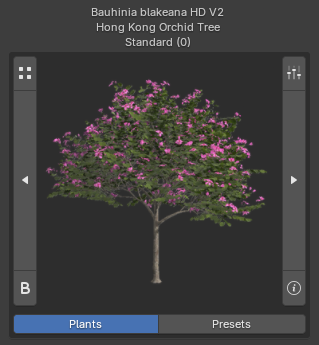
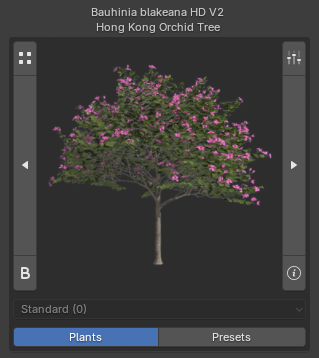
1.1.7 pre-release changelog

diff --git a/docs/changelog.md b/docs/changelog.md
@@ -12,20 +12,73 @@ Here, you can find a list of all updates, enhancements, and bug fixes made to PF
 
 <div class="changelog" markdown>
 
-<!-- ### 1.1.7 <small>2025-09-XX</small>
+### 1.1.7 <small>2025-10-XX</small>
+
+!!! warning ""
+    This version is not yet released and the changelog is not yet finalized. Coming soon!
 
 - **New Functionality**
-    - **Biomes**:
-- **New Functionality**
+    - **Biomes & Collections**: [More info](workflow/biomes_and_collections.md)
+        - Introduction to a brand new way to work with grouped plants: **Biomes** and **Collections**. Both systems help you quickly bring plants from PlantFactory into Blender, but each serves a slightly different purpose.
+        - **Biomes** are ready-made, structured plant setups designed for natural environments like forests, meadows, and wetlands.
+        - **Collections** are curated groups of plants designed for **bulk importing** into your Blender Asset Library. Unlike biomes, they are not structured scattering setups, but convenient bundles for building up your library quickly.
+    - **Resume Functionality**: If an import fails after plants have already been exported from PlantFactory, you no longer need to re-export them. A new **Resume Import** button will appear, allowing you to continue the process directly with the already exported files.
+	- **Import Naming Options**: [More info](workflow/import_settings.md#name-settings)
+		- New **Advanced Mode** available for full customization of names.
+		- **Skip LOD0 Label** option now available. When enabled, the base LOD0 version of the plant will not include 'LOD0' in its name. Higher LODs (LOD1, LOD2, etc.) are unaffected.
+        - **Group Wrappers** added. This enables you to wrap the parameters inside one wrapper, such as: `Baobab Tree [Standard mat 0 | Seed 761869182 | HD]`.
+		- Wrapper `|` added.
+        - Wrapper `_` has been modified to ignore spaces.
+        - Height option now has **Include unit** setting available.
+		- Formatting options added for LOD.
+        - These settings are also available in the new **Plant Renamer** utility.
+    - **Utilities Panel**: New panel added with tools: [More info](workflow/utilities.md)
+        - **LOD Importer**: Import selected plants with specific LODs while maintaining identical seeds to preserve their appearance.
+        - **Plant Storer**: This utility lets you save selected plants from your scene into the structured biome `.blend` files. This allows you to access them directly from your Asset Library.
+        - **Plant Renamer**: Renames selected plant objects in the scene after import. The naming follows the same settings used during import but is applied retroactively.
+        - **Reset Asset Thumbnails**: This utility allows you to restore the original thumbnails (asset previews) for any plant assets imported through the PF2B addon.
+    - New **Open in PF** button available in the **Plant Info Popup**. This allows you to open a specific plant directly in PlantFactory for inspection. Note that this does not use the PF2B Bridge and runs as a standalone session, meaning the plant cannot be imported back into Blender through this action.
     - When using the **Mark as Asset** feature now the Asset automatically retrieves an Asset Preview thumbnail, the same image from the Plant Browser will be used.
 - **Improved Functionality**
+    - The main interface panel is now faster and more responsive due to optimized background processes.
+    - Materials for specific plant variations are now selectively renamed with variation-specific prefixes to ensure uniqueness and prevent unintended merging, even when base names are shared. This should result in fewer material merging issues during import for certain plants.
     - **Queue Save & Load**: Added `Add Selected Plants to Queue` option that adds all selected plants in the scene to the queue. [More info](workflow/browse_via_blender.md#queue)
-    - **Verity Textures** tool under **Plant Troubleshoot Tools** has been improved by also printing out the image name used inside blender and not only the 'physical filename' to make it clearer to find images. Also option to print out the image file size.
+    - **Verify Textures** tool under **Plant Troubleshoot Tools** has been improved: [More info](preferences/misc.md#troubleshooting)
+        - Now also prints the Blender image name (not only the file on disk).
+        - Displays the image file size.
     - When using the **Mark as Asset** in tandem with 'Import Overrides' the Asset description will be modified slightly from the default as well as a extra 'Import Overrides used' tag added to differentiate regular preset plants vs custom.
+    - When using the **Mark as Asset** now the plant category will also be added to the metadata tags, such as "Broadleaf Trees".
+- **Interface**
+	- The **The Plant Gallery Browser** size is no longer related to the size of your **3D View** and should now always be the same size.
+    - Main Interface layout has been improved with an additional dropdown list of the presets for the current plant. This lets you switch presets more quickly, alongside the two existing methods: using the arrow buttons or browsing via the Presets Gallery.
+    - The **Plant Details** section in the **Post Processing** panel now has **copy to clipboard** button for the seed value of the plant. [More info](workflow/post_processing.md#plant-details)
+    - The **Plant Info Popup**: [More info](workflow/browse_via_blender.md#plant-info-popup)
+		- Now always shows the **Search for plant info** button regardless context.
+        - Includes **copy to clipboard** buttons when **Debug To Console** is active, aiding troubleshooting.
+		- Now also displays the preset number of the selected plant.
+	- The `Preferences > General > Interface` section has been slightly organized and new options for the **Plant Gallery Browser** has been added: `Fill Rows First`, `Max Width` `Max Height` &  `Ignore resolution scaling` settings for the popup.
+    - The **Browse Presets** button is now disabled in the main plant browser for plants without presets.
+    - **PlantFactory Library** plants now display their **English name** in the interface when only a Latin name was previously available.
+    - The **Plant Troubleshoot Tools** (that can be enabled via `Preferences -> Misc`) has been moved from the **Post Processing** panel to the new **Utilities** panel.
+    - Confirm dialog has been added to the **Reset Import** function.
 - **Other**
-    - Internal changes to the `.pf2bqueue` files that are used when using the save/load queue functionality. This change is made to accommodate for the biomes system and  makes queue files from earlier releases not fully compatible.
+    - Internal changes to the `.pf2bqueue` files were made to support the new biomes system. Queue files from earlier releases may not be fully compatible with this version.
+- **Bug Fixes**
+    - **The Plant Gallery Browser** popup could spawn larger than the screen resolution, making it unusable on some setups.
+    - **Create Missing Thumbnail Cache** for `PlantFactory Library` plants was creating thumbnails in the wrong location.
+    - **Plant Info Popup** had issues displaying thumbnails for some PlantCatalog plants containing forward slashes in their names.
+    - **Import Naming Options**: Wrapper `-` behaved incorrectly.
+- **Plant-Fixes**:
+	- **Updated**:
 
---- -->
+        *Materials now use the same tiling mode as in PlantFactory, fixing visible texture seams for the following plants:*
+
+		- `PlantCatalog > Broadleaf Trees > Eucalyptus camaldulensis HD`
+		- `PlantCatalog > Broadleaf Trees > Eucalyptus camaldulensis LD`
+		- `PlantCatalog > Broadleaf Trees > Eucalyptus viminalis HD`
+		- `PlantCatalog > Broadleaf Trees > Eucalyptus viminalis LD`
+
+---
 
 ### 1.1.6 <small>2025-08-26</small>
 
@@ -168,7 +221,7 @@ Here, you can find a list of all updates, enhancements, and bug fixes made to PF
 - **Plant-Fixes**:
     - **New**:
         - `PlantCatalog > Palms > Adonidia merrillii HD.`
-- **Bugfixes**
+- **Bug Fixes**
     - Fixed an issue where, for some users, the library cache was not detected when starting a new file in Blender. Previously, you had to manually go to the preferences and click "Verify" or update the path to resolve this. This should no longer be necessary.
 
 ---
@@ -198,7 +251,7 @@ Here, you can find a list of all updates, enhancements, and bug fixes made to PF
 
 ### 1.0.7 <small>2025-03-26</small>
 
-- **Bugfixes**
+- **Bug Fixes**
     - Fixed issues with plant libraries that were not installed in the default location, where their paths were not being used correctly, which prevented you from using the plants.
 
 ---
@@ -211,14 +264,14 @@ Here, you can find a list of all updates, enhancements, and bug fixes made to PF
     - **New**:
         - `PlantCatalog > Broadleaf Trees > Adansonia digitata HD`
         - `PlantCatalog > Broadleaf Trees > Adansonia digitata LD`
-- **Bugfixes**
+- **Bug Fixes**
     - Fixed an issue where the `PlantFactory` library plants were incorrectly indexed by the re-index function (also affecting the 'verify' cache function), which prevented you from using the plants.
 
 ---
 
 ### 1.0.5 <small>2025-03-24</small>
 
-- **Bugfixes**
+- **Bug Fixes**
     - The previous `Separate Plant Library Paths` change caused issues when plant libraries were installed in custom folders, preventing the cache and indexing from working properly. This issue has now been fixed.
 
 ---
@@ -257,7 +310,7 @@ Here, you can find a list of all updates, enhancements, and bug fixes made to PF
 
 - **Interface**:
     - Miscellaneous minor interface tweaks.
-- **Bugfixes**:
+- **Bug Fixes**:
     - The `Open` button in the "Post Processing > Plant Details" now works with plants without presets.
 - **Other**
     - The Python library **psutil** bundled with the addon did not load properly on some systems due to Blender incorrectly interpreting the Python version number for this package. The version has now been renamed to reflect that it is intended for Python 3.11, as used in Blender.
@@ -282,7 +335,7 @@ Here, you can find a list of all updates, enhancements, and bug fixes made to PF
         - `PlantFactory > Trees > Quercus Rubra Mature`
         - `PlantFactory > Trees > Quercus Rubra Old`
         - `PlantFactory > Trees > Quercus Rubra Young`
-- **Bugfixes**:
+- **Bug Fixes**:
     - The `Plant Troubleshoot tools > Verify Textures` utility now works with plants that do not have presets.
 
 ---

diff --git a/docs/workflow/import_settings.md b/docs/workflow/import_settings.md
@@ -41,9 +41,18 @@ All settings also include a **Wrapper** option, which controls how parameters ar
     - `[]` → Square brackets
     - `()` → Parentheses
     - `<>` → Angle brackets
+    <!-- - `|` → Prefix with a pipe --> <!-- 1.1.7 update -->
     - `-` → Prefix with a dash
     - `_` → Prefix with an underscore
     - `None` → No wrapper
+
+<!-- - **Group Wrappers**:
+    Instead of wrapping each parameter individually, you can wrap several together inside one group.
+    Example:
+    ```
+    Baobab Tree [Standard mat 0 | Seed 761869182 | HD]
+    ```
+    Here, the **preset**, **seed**, and **detail level** are grouped within one set of square brackets, separated by a divider. --> <!-- 1.1.7 update -->
 
 <!-- - Some Examples:
     - With square brackets: `Boletus edulis HD [Standard Mat 75]`
@@ -64,7 +73,7 @@ The animated GIF below shows an example of adding the "Maturity" parameter and h
     - **Add Seed**
     - **Detail Level**: Appends the detail level (`FG, HD, LD, RT`) to the plant name.  *Note: Only applies when using English plant names and plants from the PlantCatalog library.*
     - **Add LOD**: Only available when using the [Import Extra LODs](browse_via_blender.md#lods) feature.
-
+        <!-- - **Skip LOD0 Label** option: when enabled, the base LOD0 plant will not include `LOD0` in its name, but higher LODs (`LOD1`, `LOD2`, etc.) will. --> <!-- 1.1.7 update -->
     - **Add Spaces Between Elements**: Insert spaces between elements in the plant name. For example, `Boletus edulis HD[Standard Mat 75][Spring]` will become `Boletus edulis HD [Standard Mat 75] [Spring]`.
 
 
@@ -77,3 +86,54 @@ The animated GIF below shows an example of adding the "Maturity" parameter and h
     - **Add Height**
 
     - **Add Spaces Between Elements**: Insert spaces between elements in the plant name. For example, `Boletus edulis HD[Standard Mat 75][Spring]` will become `Boletus edulis HD [Standard Mat 75] [Spring]`.
+
+
+
+<!--
+    <h4>Advanced Mode</h4>
+    ![Import Name Settings Advanced Mode](../images/import_name_settings_advanced-via_blender.webp){ .img-box align=left }
+    For power users, an **Advanced Mode** is available to fully customize how plant names are generated.
+
+    When enabled, you can use **placeholders** like `{EnglishName}`, `{Preset}`, `{LOD}`, `{Height}`, `{HeightUnit}`, and more to control the exact format of the name.
+
+    Example: `{Name} [{Preset} | {Detail}] {Height:.2f}{HeightUnit}` → Produces: `Boletus edulis HD [Standard Mat 75 | HD]  3.79m`
+
+    - **Preset templates** are available from a dropdown for quick starting points.
+    - A built-in **help panel** lists all available placeholders and examples.
+
+    info2 "Formatting Help"
+    You can use the following placeholders inside your naming template.
+    They will be replaced with plant-specific values during import.
+
+    <h4>Available placeholders:</h4>
+
+    - `{EnglishName}` → English plant name
+    - `{LatinName}` → Latin plant name
+    - `{Preset}` → Preset name
+    - `{PresetNumber}` → Preset number
+    - `{PresetDescription}` → Preset description
+    - `{Maturity}` → Maturity
+    - `{Health}` → Health
+    - `{Season}` → Season name
+    - `{Height}` → Plant height
+    - `{HeightUnit}` → Height unit (`m`/`cm`/`mm` depending on scene scale)
+    - `{Seed}` → Seed
+    - `{Detail}` → Detail level
+    - `{LOD}` → LOD level
+
+
+    <h4>Height formatting examples:</h4>
+
+    - `{Height}` → full value (e.g. `12.345678`)
+    - `{Height:.0f}` → no decimals (e.g. `12`)
+    - `{Height:.1f}` → 1 decimal (e.g. `12.3`)
+    - `{Height:.2f}` → 2 decimals (e.g. `12.35`)
+    - `{Height:.3f}` → 3 decimals (e.g. `12.346`)
+
+
+    <h4>Advanced text formatting examples</h4>
+
+    - `{Preset:.5}` → truncate to first 5 characters --> <!-- 1.1.7 update -->
+
+<!-- TIP:
+To modify a plant’s name after import, use the [Plant Renamer Utility](utilities.md#plant-renamer). --> <!-- 1.1.7 update -->

diff --git a/docs/workflow/utilities.md b/docs/workflow/utilities.md
@@ -82,7 +82,7 @@ Renames selected plant objects in the scene after import. The naming follows the
 
 Restores missing or modified asset previews to their original images.
 
-This function allows you to restore the original thumbnails (asset previews) for any plant assets imported through the PF2B addon. If a thumbnail was accidentally deleted, modified, or lost, you can use this tool to revert it back to the default preview without reimporting the plant. This is particularly useful for maintaining a clean and consistent look in the Blender Asset Browser, ensuring that all assets display the correct preview images.
+This utility allows you to restore the original thumbnails (asset previews) for any plant assets imported through the PF2B addon. If a thumbnail was accidentally deleted, modified, or lost, you can use this tool to revert it back to the default preview without reimporting the plant. This is particularly useful for maintaining a clean and consistent look in the Blender Asset Browser, ensuring that all assets display the correct preview images.
 
 <h5>Options</h5>
 

diff --git a/docs/preferences/plant_library.md b/docs/preferences/plant_library.md
@@ -102,7 +102,7 @@ To avoid rebuilding the entire cache, you can import or export an existing cache
 
 ### Scatter add-on
 
-Displays a verification of whether Geo-Scatter or Biome-Reader is installed, and provides links if they are not found.
+Displays a verification of whether Geo-Scatter or Biome-Reader is installed, and provides links if they are not found. You can read more about these add-ons in the [biomes overview](../workflow/biomes_and_collections.md#biomes)
 
 - **PF2B Scatter-Library Location**: Only change this setting if you have modified the "Scatter-Library Location" in the Geo-Scatter or Biome-Reader add-on. Otherwise, leave it unchanged. If you did change the location, this path must point to a subfolder within the add-on’s selected path, and that subfolder must be named "PF2B".
 

diff --git a/docs/workflow/biomes.md b/docs/workflow/biomes.md
@@ -33,6 +33,7 @@ If a biome is already built and available in your library, the **Build Biome** b
 
 - **Build Biome**: See [Building a Biome](#building-a-biome).
 - **INFO**: Displays information about the biome. See [Info Popup](#info-popup).
+- **Preview Biome**: Click the biome name to open a larger preview image.
 - :material-menu: **Menu**:
     - **Add plants to queue**: Adds these plants to your [queue](browse_via_blender.md#queue). This will erase all current items in your queue.
     - **Check Installed Plants**: Checks which plants you already have imported in your library. See [Installed Plants Popup](#installed-plants-popup).

diff --git a/docs/support/faq.md b/docs/support/faq.md
@@ -264,7 +264,7 @@ tags:
 ### Does PF2B work with Geo-Scatter?
 
 :   Yes, PF2B is fully compatible with [Geo-Scatter](https://www.geoscatter.com/) right out of the box. All plants work seamlessly, and there are also ready-made biomes available for easy setup.
-Learn more on the [Biomes](../workflow/biomes.md) page. -->
+Learn more on the [Biomes](../workflow/biomes.md) page. --> <!-- 1.1.7 update -->
 
 
 ---
